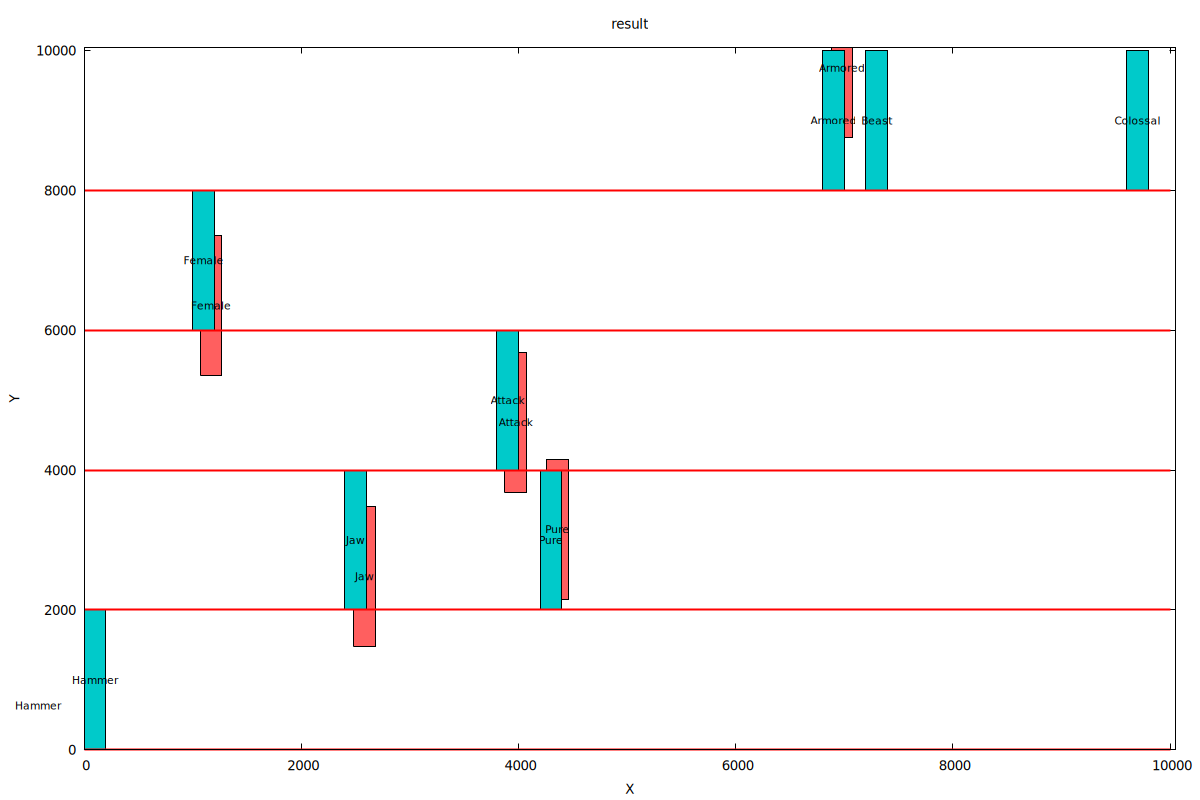
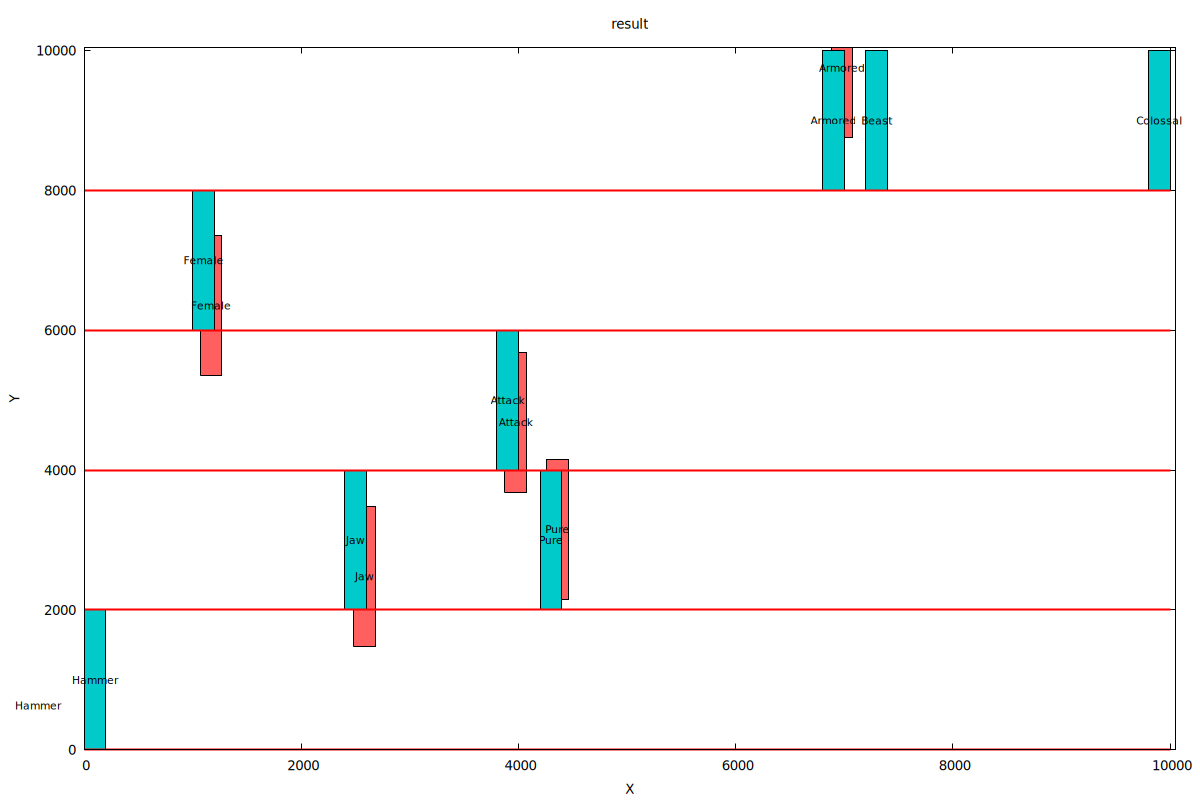
因為CellPlace的迴圈範圍錯誤，以改進可以到該去的位置了

Changed region(s): [[0.925, 0.0625, 0.9867, 0.25]]

diff --git a/hw2/function.cpp b/hw2/function.cpp
@@ -5,9 +5,9 @@ void CellPlace (vector<vector<bool>> &rowSites, Component &cell, const int &cell
     int bestXIndex = -1;
     int bestYIndex = -1;
     for (size_t i = 0; i < rowSites.size(); i++) {
-        for (size_t j = 0; j < rowSites[i].size() - cellSize; j++) {
+        for (size_t j = 0; j < rowSites[i].size() - cellSize + 1; j++) {
             bool canPlace = true;
-            for (int k = 0; k < cellSize - 1; k++) {
+            for (int k = 0; k <= cellSize - 1; k++) {
                 if (rowSites[i][j + k]) {
                     canPlace = false;
                     break;
